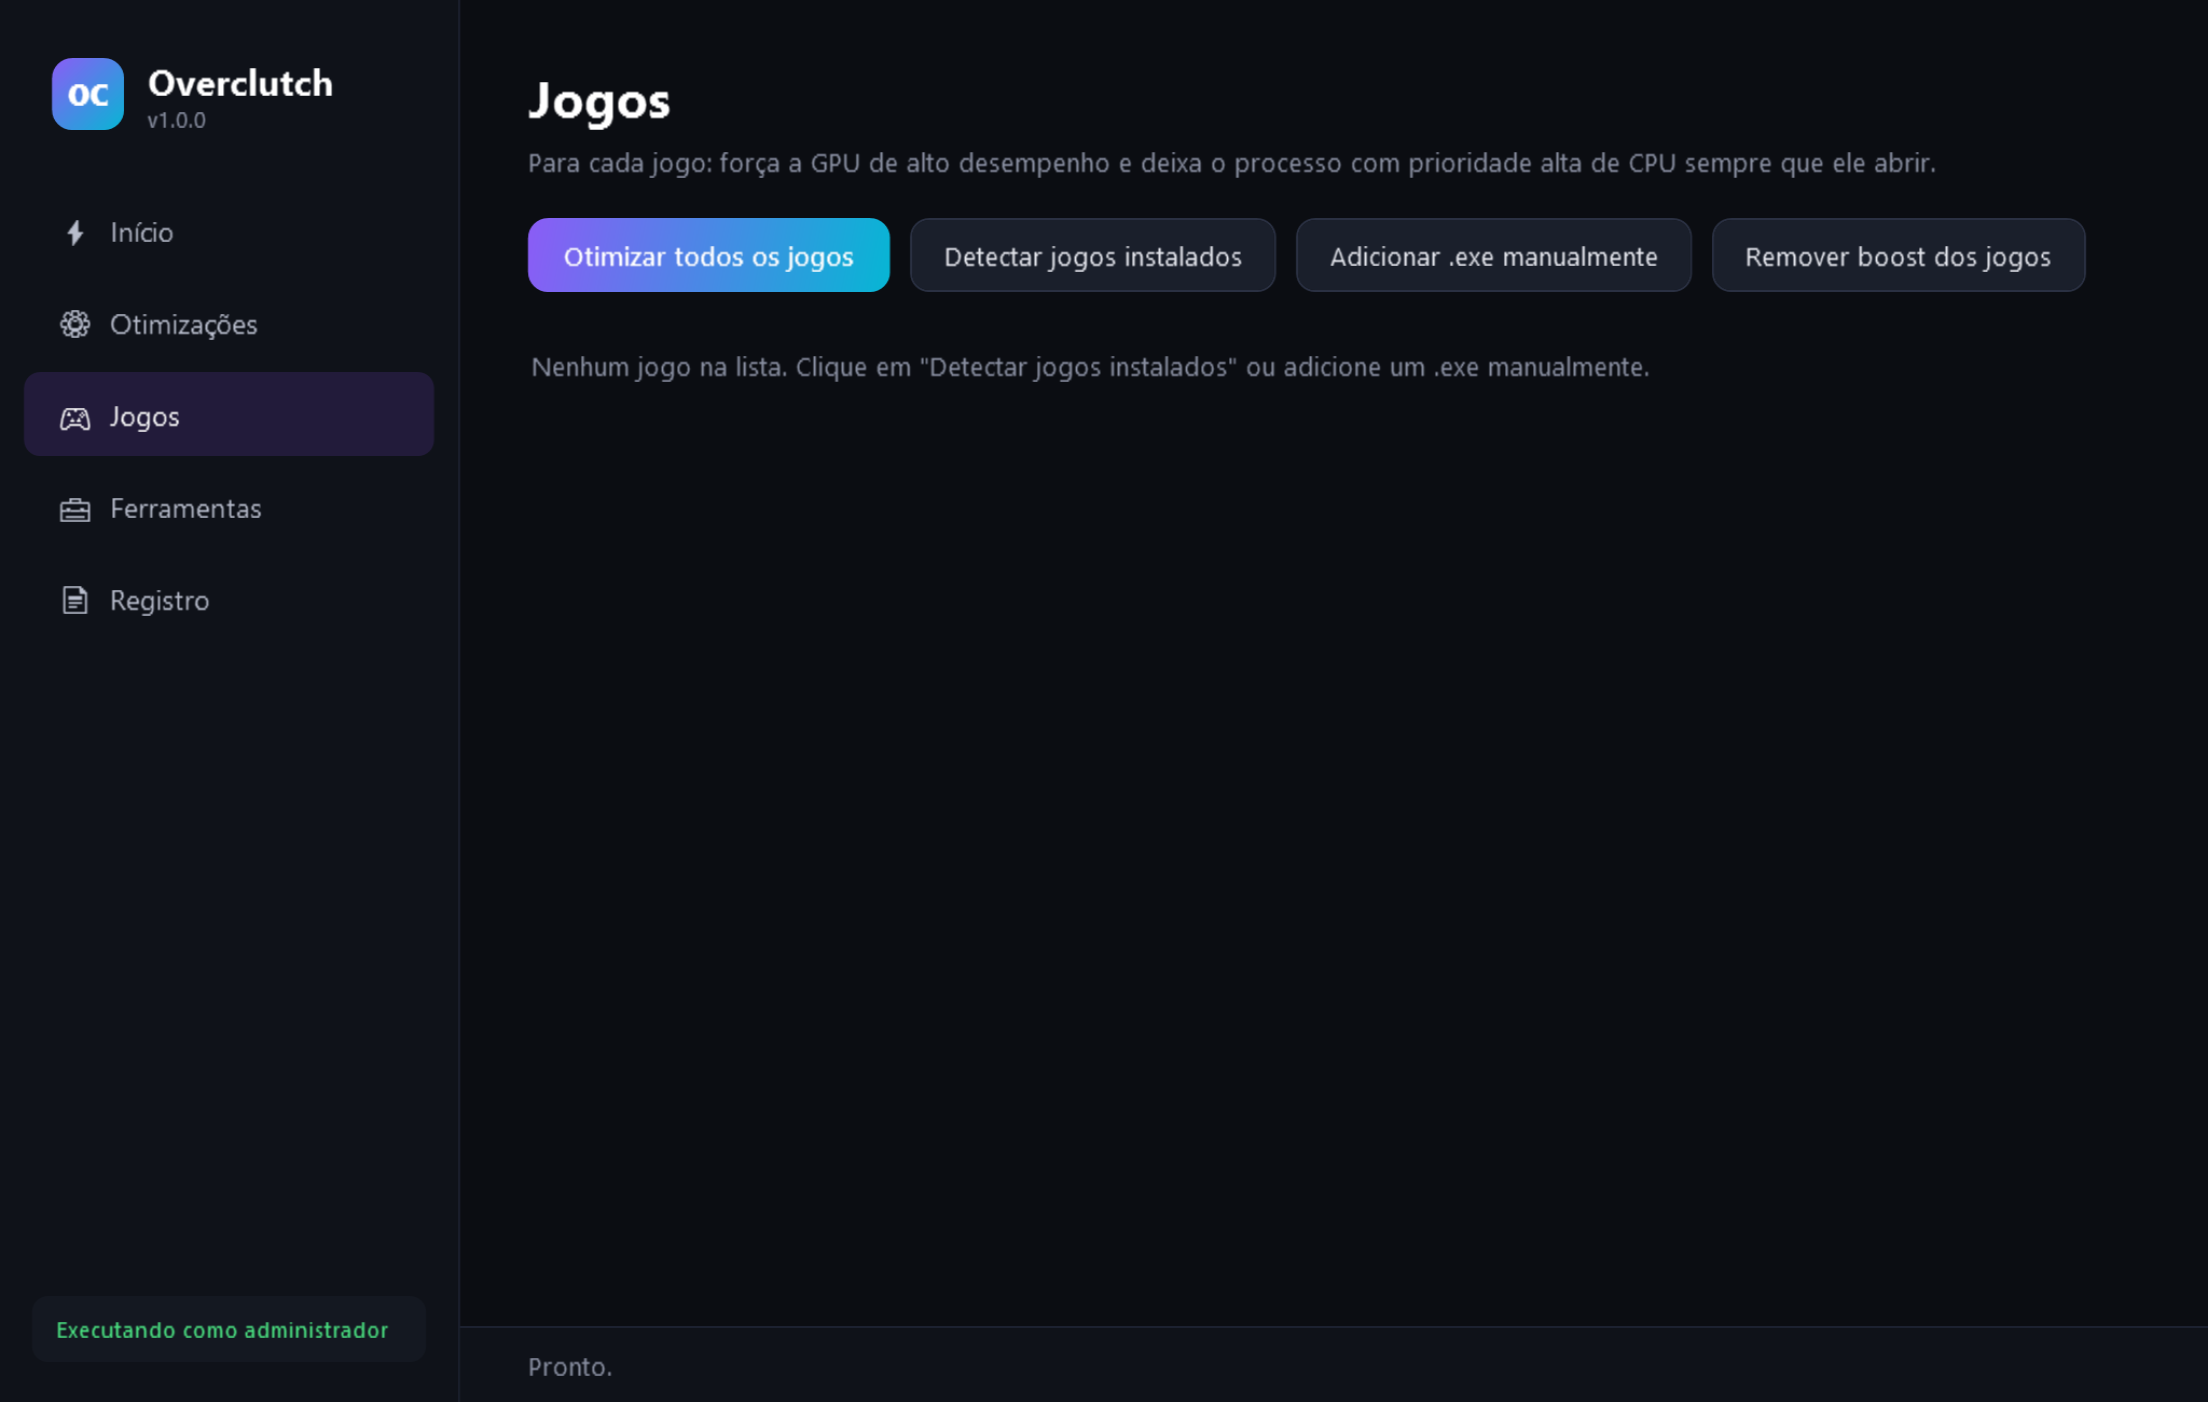
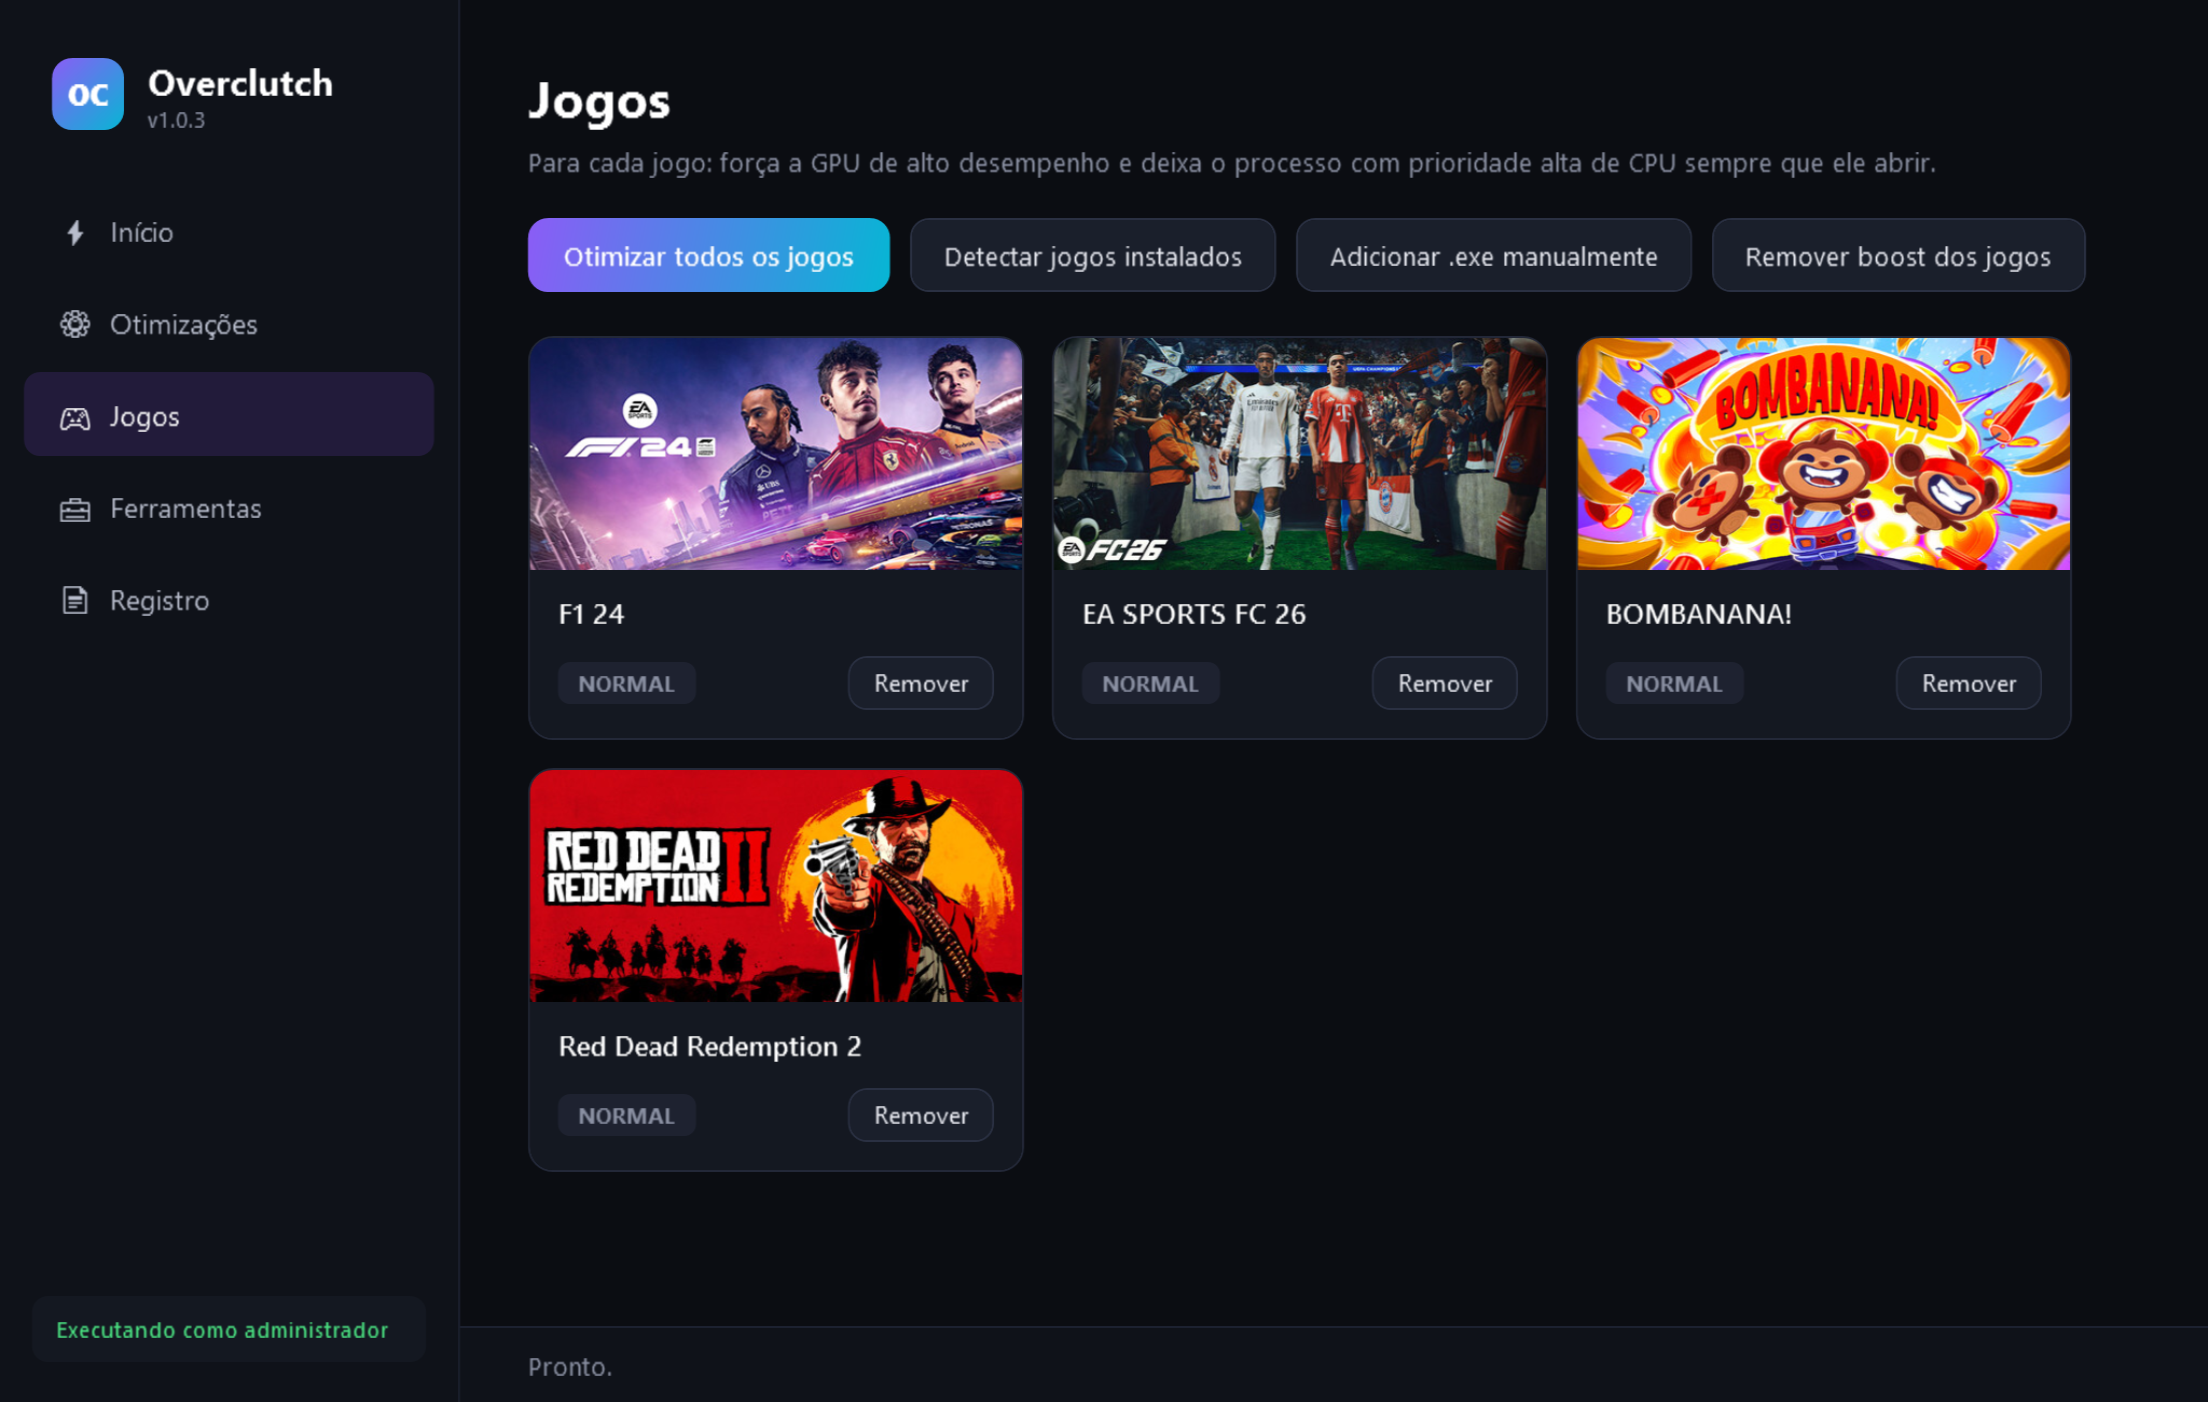
Aba Jogos com capas e só o nome do jogo (1.0.4)
- Cartões em grade com a capa de cada jogo: cache local da Steam ou loja
  da Steam (busca por nome só aceita nome idêntico); sem capa, mostra o
  ícone do .exe. Capas ficam em DataDir\covers e são buscadas em segundo
  plano.
- O caminho do .exe sai do cartão e fica só na dica ao passar o mouse.
- Teste de interface confere cartões, ausência do caminho e capas.

diff --git a/src/MainWindow.xaml b/src/MainWindow.xaml
@@ -277,7 +277,7 @@
             </WrapPanel>
           </StackPanel>
           <ScrollViewer VerticalScrollBarVisibility="Auto">
-            <StackPanel x:Name="GameList" Margin="0,0,8,0"/>
+            <WrapPanel x:Name="GameList" Margin="0,4,0,0"/>
           </ScrollViewer>
         </DockPanel>
 

diff --git a/README.md b/README.md
@@ -8,7 +8,7 @@ Não precisa instalar nada além do que já vem no Windows 10/11 (PowerShell 5.1
 
 - **Otimizar agora (1 clique):** cria um ponto de restauração e aplica as otimizações recomendadas.
 - **20 otimizações** em 5 categorias (Sistema, Jogos, Latência e Input, Rede, Serviços), cada uma com descrição, nível de risco e um indicador ATIVO/INATIVO.
-- **Boost por jogo:** ao abrir, o app encontra sozinho os jogos instalados pela **Steam** (todas as bibliotecas), **Epic**, **Riot**, **EA**, **Ubisoft**, **GOG**, **Battle.net** e **Xbox/Game Pass**, escolhe o `.exe` do jogo (ignorando launchers, anti-cheat, instaladores e versões de teste) e coloca na lista. Para cada um, força a GPU dedicada e a prioridade alta de CPU. Jogos removidos da lista não voltam sozinhos.
+- **Boost por jogo:** ao abrir, o app encontra sozinho os jogos instalados pela **Steam** (todas as bibliotecas), **Epic**, **Riot**, **EA**, **Ubisoft**, **GOG**, **Battle.net** e **Xbox/Game Pass**, escolhe o `.exe` do jogo (ignorando launchers, anti-cheat, instaladores e versões de teste) e coloca na lista, com a capa do jogo (do cache da Steam ou da loja da Steam). Para cada um, força a GPU dedicada e a prioridade alta de CPU. Jogos removidos da lista não voltam sozinhos.
 - **Ferramentas:** limpar arquivos temporários, limpar o cache DNS, criar um ponto de restauração.
 - **Desfazer tudo:** antes de mudar qualquer coisa, o valor original é salvo em `C:\ProgramData\Overclutch\backup.json`, e cada ajuste volta exatamente ao que era.
 - **Modo simulação** (`Simular.bat`): mostra no Registro tudo o que seria alterado, sem mudar nada.
